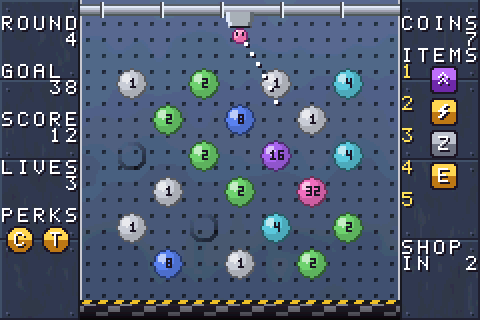
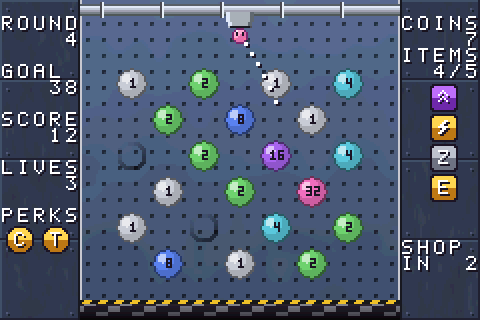
Item counter instead of slot numbers; swap items when full
The HUD shows how many items you hold (4/5, or FULL) above a plain
stack of icons. Buying with full hands opens a swap screen to choose
which item to replace; swapping a Heart away takes its extra life.

Changed region(s): [[0.8125, 0.1875, 1.0, 0.6562]]

diff --git a/source/main.c b/source/main.c
@@ -36,6 +36,7 @@ static State state, paused_from;
 static Result last_result;
 static int frames, timer, menu_sel, aim, best_launch;
 static int inv_sel;                // which owned item or perk the pause screen shows
+static int swap_for = -1;          // shop slot being bought with full hands, -1 if not swapping
 static int credits_scroll, credits_rows;
 static int32_t shown[NUM_SLOTS];  // value currently drawn on each peg sprite
 static uint32_t seed = 0x5EED1234;
@@ -173,6 +174,10 @@ static void draw_objects(void)
 {
     for (int i = 0; i < 128; i++) hide_obj(i);
 
+    if (state == ST_SHOP && swap_for >= 0) {
+        for (int i = 0; i < game.nitems; i++) icon_obj(OBJ_ICON + i, game.items[i], 24, 36 + i * 16, 0, 0);
+        return;
+    }
     if (state == ST_SHOP) {
         for (int s = 0; s < SHOP_SLOTS; s++)
             if (game.shop[s] >= 0) icon_obj(OBJ_ICON + s, game.shop[s], 24, 36 + s * 24, 0, 0);
@@ -212,9 +217,9 @@ static void draw_objects(void)
                     TILE_DOT | ATTR2_PRIO(1) | ATTR2_PAL(PAL_NUBBY));
     }
 
-    // items in numbered slots on the right, perks on the left; both flash when they fire
+    // items stacked on the right, perks on the left; both flash when they fire
     for (int i = 0; i < game.nitems; i++)
-        icon_obj(OBJ_ICON + i, game.items[i], 214, 32 + i * 16, 1, game.item_flash[i] & 4);
+        icon_obj(OBJ_ICON + i, game.items[i], 214, 41 + i * 15, 1, game.item_flash[i] & 4);
     for (int p = 0; p < game.nperks; p++)
         perk_obj(OBJ_PERK + p, game.perks[p], 2 + (p % 2) * 18, 112 + (p / 2) * 18, 1, game.perk_flash[p] & 4);
 
@@ -300,9 +305,11 @@ static void draw_hud(void)
     text_at(25, 1, "COINS");
     num_right(25, 2, game.coins, 5);
     text_at(25, 3, "ITEMS");
-    for (int s = 0; s < MAX_ITEMS; s++) {
-        char n[2] = { (char)('1' + s), 0 };
-        text_style(25, 4 + s * 2, n, TXT_GOLD);
+    if (game.nitems >= MAX_ITEMS) {
+        text_style(25, 4, " FULL", TXT_GOLD);
+    } else {
+        char n[6] = { ' ', ' ', (char)('0' + game.nitems), '/', (char)('0' + MAX_ITEMS), 0 };
+        text_at(25, 4, n);
     }
     int until = SHOP_EVERY - (game.round - 1) % SHOP_EVERY;
     text_at(25, 15, "SHOP");
@@ -558,6 +565,25 @@ static void finish_launch(void)
 
 // ---------------------------------------------------------------- shop
 
+// Hands full: pick which owned item the new one replaces.
+static void draw_swap(void)
+{
+    char buf[32];
+    panel(1, 28, 18);
+    text_center(2, "YOUR ITEMS ARE FULL", TXT_HILITE);
+    put_str(put_str(buf, "SWAP ONE FOR "), item_info[game.shop[swap_for]].name);
+    text_center(3, buf, TXT_PANEL);
+    for (int i = 0; i < game.nitems; i++) {
+        int on = i == menu_sel, row = 5 + i * 2;
+        text_style(2, row, on ? ">" : " ", on ? TXT_HILITE : TXT_PANEL);
+        text_style(6, row, item_info[game.items[i]].name, on ? TXT_HILITE : TXT_PANEL);
+    }
+    const ItemInfo *it = &item_info[game.items[menu_sel]];
+    text_center(15, trigger_text[it->trigger], TXT_PANEL);
+    text_center(16, it->effect, TXT_PANEL);
+    text_center(17, "A SWAP   B KEEP THEM", TXT_PANEL);
+}
+
 static void draw_shop(void)
 {
     char buf[32], *p;
@@ -565,10 +591,14 @@ static void draw_shop(void)
     text_center(2, "SHOP", TXT_HILITE);
     p = put_str(buf, "COINS ");
     p = put_num(p, game.coins);
-    p = put_str(p, "   ITEMS ");
-    p = put_num(p, game.nitems);
-    p = put_str(p, " OF ");
-    put_num(p, MAX_ITEMS);
+    if (game.nitems >= MAX_ITEMS) {
+        put_str(p, "   ITEMS FULL");
+    } else {
+        p = put_str(p, "   ITEMS ");
+        p = put_num(p, game.nitems);
+        p = put_str(p, "/");
+        put_num(p, MAX_ITEMS);
+    }
     text_center(3, buf, TXT_HILITE);
     for (int s = 0; s <= SHOP_SLOTS; s++) {
         int row = 5 + s * 3;
@@ -614,10 +644,31 @@ static void open_shop(void)
 
 static void update_shop(uint16_t pressed)
 {
+    if (swap_for >= 0) {
+        if (menu_move(pressed, game.nitems)) draw_swap();
+        if (pressed & (KEY_A | KEY_B)) {
+            if (pressed & KEY_A) {
+                game_buy_swap(&game, swap_for, menu_sel);
+                sfx_buy();
+            }
+            menu_sel = swap_for;
+            swap_for = -1;
+            draw_shop();
+        }
+        return;
+    }
     if (menu_move(pressed, SHOP_SLOTS + 1)) draw_shop();
     if (!(pressed & KEY_A)) return;
     if (menu_sel == SHOP_SLOTS) {
         show_board();
+        return;
+    }
+    int item = game.shop[menu_sel];
+    if (item >= 0 && game.nitems >= MAX_ITEMS && game.coins >= item_info[item].price) {
+        swap_for = menu_sel;                  // hands full: choose what to let go of
+        menu_sel = 0;
+        sfx_move();
+        draw_swap();
         return;
     }
     if (game_buy(&game, menu_sel)) sfx_buy();

diff --git a/source/assets.c b/source/assets.c
@@ -5072,7 +5072,7 @@ const uint32_t obj_tiles[728] = {
     0x11288810, 0x81288810, 0x81288810, 0x81888100, 0x88881100, 0x88811000, 0x11100000, 0x00000000,
     0x01888121, 0x01888128, 0x01888128, 0x00188188, 0x00118888, 0x00011888, 0x00000111, 0x00000000,
 };
-const uint32_t font_tiles[1568] = {
+const uint32_t font_tiles[1600] = {
     0x00000000, 0x00000000, 0x00000000, 0x00000000, 0x00000000, 0x00000000, 0x00000000, 0x00000000,
     0x00011100, 0x00122010, 0x02110210, 0x02101210, 0x02120110, 0x02102210, 0x02011100, 0x00222000,
     0x00001000, 0x00021100, 0x00021000, 0x00021000, 0x00021000, 0x00021000, 0x00011100, 0x00222000,
@@ -5120,6 +5120,7 @@ const uint32_t font_tiles[1568] = {
     0x00001000, 0x00021000, 0x00020100, 0x00002000, 0x00000000, 0x00000000, 0x00000000, 0x00000000,
     0x00000000, 0x00000000, 0x00000000, 0x00000000, 0x00000000, 0x00001000, 0x00020100, 0x00002000,
     0x00100110, 0x02012110, 0x00212200, 0x00201000, 0x00020100, 0x00112100, 0x02112010, 0x02200200,
+    0x00100000, 0x02010000, 0x00210000, 0x00201000, 0x00020100, 0x00002100, 0x00002010, 0x00000200,
     0x33333333, 0x33333333, 0x33333333, 0x33333333, 0x33333333, 0x33333333, 0x33333333, 0x33333333,
     0x33311133, 0x33122313, 0x32113213, 0x32131213, 0x32123113, 0x32132213, 0x32311133, 0x33222333,
     0x33331333, 0x33321133, 0x33321333, 0x33321333, 0x33321333, 0x33321333, 0x33311133, 0x33222333,
@@ -5167,6 +5168,7 @@ const uint32_t font_tiles[1568] = {
     0x33331333, 0x33321333, 0x33323133, 0x33332333, 0x33333333, 0x33333333, 0x33333333, 0x33333333,
     0x33333333, 0x33333333, 0x33333333, 0x33333333, 0x33333333, 0x33331333, 0x33323133, 0x33332333,
     0x33133113, 0x32312113, 0x33212233, 0x33231333, 0x33323133, 0x33112133, 0x32112313, 0x32233233,
+    0x33133333, 0x32313333, 0x33213333, 0x33231333, 0x33323133, 0x33332133, 0x33332313, 0x33333233,
     0x33333333, 0x33333333, 0x33333333, 0x33333333, 0x33333333, 0x33333333, 0x33333333, 0x33333333,
     0x33366633, 0x33622363, 0x32663263, 0x32636263, 0x32623663, 0x32632263, 0x32366633, 0x33222333,
     0x33336333, 0x33326633, 0x33326333, 0x33326333, 0x33326333, 0x33326333, 0x33366633, 0x33222333,
@@ -5214,6 +5216,7 @@ const uint32_t font_tiles[1568] = {
     0x33336333, 0x33326333, 0x33323633, 0x33332333, 0x33333333, 0x33333333, 0x33333333, 0x33333333,
     0x33333333, 0x33333333, 0x33333333, 0x33333333, 0x33333333, 0x33336333, 0x33323633, 0x33332333,
     0x33633663, 0x32362663, 0x33262233, 0x33236333, 0x33323633, 0x33662633, 0x32662363, 0x32233233,
+    0x33633333, 0x32363333, 0x33263333, 0x33236333, 0x33323633, 0x33332633, 0x33332363, 0x33333233,
     0x00000000, 0x00000000, 0x00000000, 0x00000000, 0x00000000, 0x00000000, 0x00000000, 0x00000000,
     0x00066600, 0x00622060, 0x02660260, 0x02606260, 0x02620660, 0x02602260, 0x02066600, 0x00222000,
     0x00006000, 0x00026600, 0x00026000, 0x00026000, 0x00026000, 0x00026000, 0x00066600, 0x00222000,
@@ -5261,6 +5264,7 @@ const uint32_t font_tiles[1568] = {
     0x00006000, 0x00026000, 0x00020600, 0x00002000, 0x00000000, 0x00000000, 0x00000000, 0x00000000,
     0x00000000, 0x00000000, 0x00000000, 0x00000000, 0x00000000, 0x00006000, 0x00020600, 0x00002000,
     0x00600660, 0x02062660, 0x00262200, 0x00206000, 0x00020600, 0x00662600, 0x02662060, 0x02200200,
+    0x00600000, 0x02060000, 0x00260000, 0x00206000, 0x00020600, 0x00002600, 0x00002060, 0x00000200,
     0x55555555, 0x44444445, 0x77777745, 0x33333745, 0x33333745, 0x33333745, 0x33333745, 0x33333745,
     0x55555555, 0x44444444, 0x77777777, 0x33333333, 0x33333333, 0x33333333, 0x33333333, 0x33333333,
     0x55555555, 0x54444444, 0x54777777, 0x54333333, 0x54333333, 0x54333333, 0x54333333, 0x54333333,

diff --git a/tools/gen_assets.py b/tools/gen_assets.py
@@ -269,7 +269,7 @@ def pal16(cols):
 
 
 # ---------------------------------------------------------------- font
-FONT_CHARS = " 0123456789ABCDEFGHIJKLMNOPQRSTUVWXYZ:!->+=.',%"
+FONT_CHARS = " 0123456789ABCDEFGHIJKLMNOPQRSTUVWXYZ:!->+=.',%/"
 GLYPHS = {
     "0": ".###. #...# #..## #.#.# ##..# #...# .###.",
     "1": "..#.. .##.. ..#.. ..#.. ..#.. ..#.. .###.",
@@ -317,6 +317,7 @@ GLYPHS = {
     "'": "..#.. ..#.. .#... ..... ..... ..... .....",
     ",": "..... ..... ..... ..... ..... ..#.. .#...",
     "%": "##..# ##.#. ...#. ..#.. .#... .#.## #..##",
+    "/": "....# ...#. ...#. ..#.. .#... .#... #....",
 }
 # styles: plain, on a panel, highlighted on a panel, gold (no panel)
 FONT_STYLES = [(1, 2, 0), (1, 2, 3), (6, 2, 3), (6, 2, 0)]
@@ -955,10 +956,9 @@ def board_preview(n):
     text(img, 25, 2, "    7")
     text(img, 25, 3, "ITEMS")
     icon_pal = [(0, 0, 0)] + ICON_PAL[1:]
-    for i in range(5):
-        text(img, 25, 4 + i * 2, str(i + 1), FONT_PAL[6])
+    text(img, 25, 4, "  4/5")
     for i, it in enumerate((2, 3, 5, 7)):
-        blit(img, icon_sprite(*ICONS[it]), 214, 32 + i * 16, icon_pal)
+        blit(img, icon_sprite(*ICONS[it]), 214, 41 + i * 15, icon_pal)
     text(img, 25, 15, "SHOP")
     text(img, 25, 16, "IN  2")
     text(img, 0, 13, "PERKS")

diff --git a/source/game.c b/source/game.c
@@ -523,10 +523,25 @@ void game_roll_shop(Game *g)
 
 int game_buy(Game *g, int slot)
 {
+    return game_buy_swap(g, slot, -1);
+}
+
+int game_buy_swap(Game *g, int slot, int replace)
+{
     int item = g->shop[slot];
-    if (item < 0 || g->nitems >= MAX_ITEMS || g->coins < item_info[item].price) return 0;
+    if (item < 0 || g->coins < item_info[item].price) return 0;
+    if (replace < 0 ? g->nitems >= MAX_ITEMS : replace >= g->nitems) return 0;
     g->coins -= item_info[item].price;
-    g->items[g->nitems++] = (uint8_t)item;
+    if (replace < 0) {
+        g->items[g->nitems++] = (uint8_t)item;
+    } else {
+        if (g->items[replace] == ITEM_HEART) {      // its extra life goes with it
+            g->max_lives--;
+            if (g->lives > g->max_lives) g->lives = g->max_lives;
+        }
+        g->items[replace] = (uint8_t)item;
+        g->item_flash[replace] = 0;
+    }
     g->shop[slot] = -1;
     if (item == ITEM_HEART) {
         g->max_lives++;

diff --git a/tests/test_game.c b/tests/test_game.c
@@ -166,6 +166,18 @@ static void test_shop(void)
     CHECK(g.nitems == MAX_ITEMS && bought == MAX_ITEMS - 1);
     game_roll_shop(&g);
     CHECK(!game_buy(&g, 0));                  // no room for a sixth item
+    int wanted = g.shop[0], coins = g.coins;
+    CHECK(game_buy_swap(&g, 0, 2));           // ...but it can replace one
+    CHECK(g.nitems == MAX_ITEMS && g.items[2] == wanted && g.shop[0] == -1);
+    CHECK(g.coins == coins - item_info[wanted].price);
+
+    game_new_run(&g, 12);                     // swapping a heart away takes its life
+    g.coins = 100;
+    g.shop[0] = ITEM_HEART;
+    game_buy(&g, 0);
+    g.shop[0] = ITEM_PUMP;
+    CHECK(game_buy_swap(&g, 0, 0));
+    CHECK(g.max_lives == START_LIVES && g.lives == START_LIVES);
 
     game_new_run(&g, 8);
     g.coins = 100;

diff --git a/include/assets.h b/include/assets.h
@@ -4,9 +4,9 @@
 
 #include <stdint.h>
 
-#define FONT_CHARS " 0123456789ABCDEFGHIJKLMNOPQRSTUVWXYZ:!->+=.\',%"
-#define FONT_NCHARS 47
-#define FRAME_TILE 188
+#define FONT_CHARS " 0123456789ABCDEFGHIJKLMNOPQRSTUVWXYZ:!->+=.\',%/"
+#define FONT_NCHARS 48
+#define FRAME_TILE 192
 #define NUM_BOARDS 3
 #define BG_FIRST_COLOR 32
 #define BG_IMG_WORDS 9600
@@ -35,6 +35,6 @@ extern const uint32_t title_tiles[BG_IMG_WORDS];
 extern const uint16_t *const board_pal[NUM_BOARDS];
 extern const uint32_t *const board_tiles[NUM_BOARDS];
 extern const uint32_t obj_tiles[728];
-extern const uint32_t font_tiles[1568];
+extern const uint32_t font_tiles[1600];
 
 #endif

diff --git a/include/game.h b/include/game.h
@@ -155,6 +155,8 @@ Result game_resolve(Game *g);           // after a launch: restock or lose a lif
 int game_shop_due(const Game *g);       // a shop comes before this round
 void game_roll_shop(Game *g);
 int game_buy(Game *g, int slot);        // 1 if bought
+// Buy with full hands: the item in `replace` is thrown away. 1 if bought.
+int game_buy_swap(Game *g, int slot, int replace);
 
 int game_perk_due(const Game *g);       // a perk choice comes before this round
 void game_roll_perks(Game *g);

diff --git a/README.md b/README.md
@@ -29,7 +29,8 @@ and pop the numbered pegs to hit each round's quota in a single launch.
   restores a life. New pegs get bigger every 4 rounds, and quotas rise.
 - Pop every peg on the board for a **perfect**: the launch scores double.
 - Every 3 rounds there's a shop. You can hold up to **5 items**, and each
-  one fires on its own trigger:
+  one fires on its own trigger. With all 5, buying another lets you swap out
+  one you already have:
 
 | Item | Trigger | Effect | Cost |
 | --- | --- | --- | --- |
